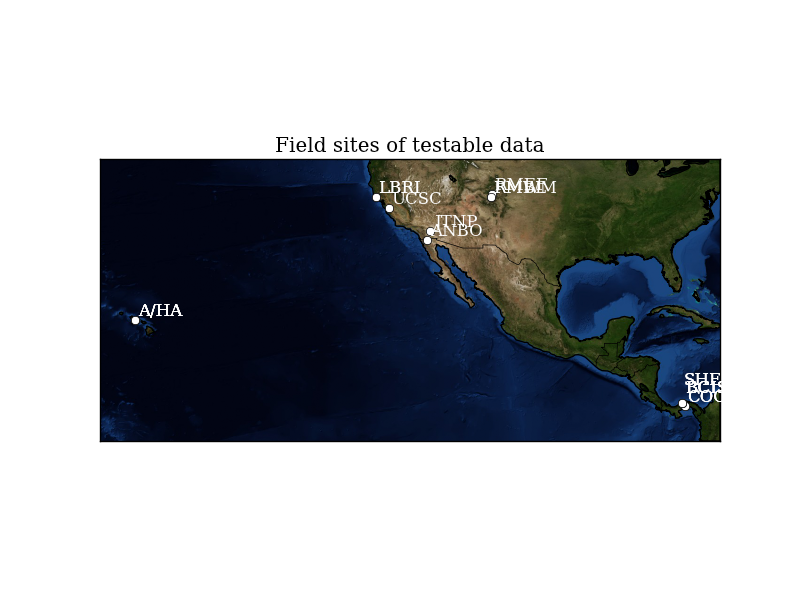
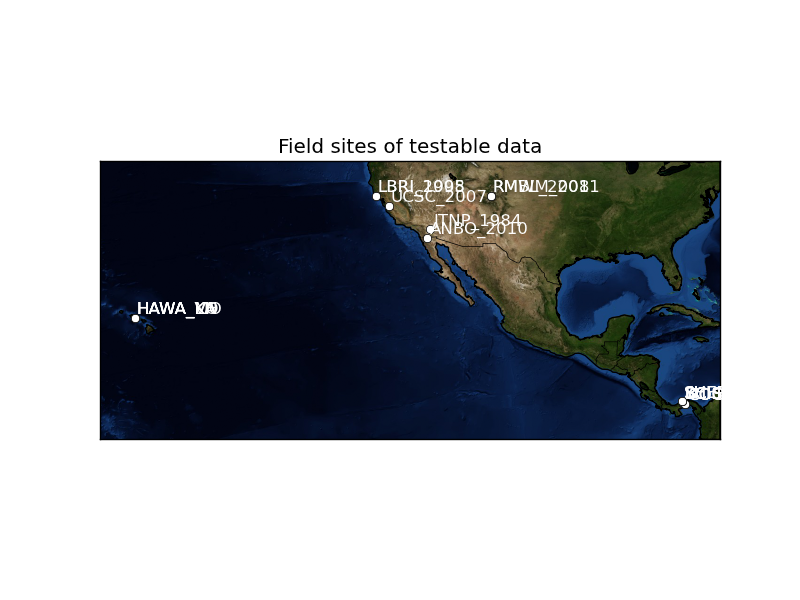
Workflow mapmaking
Workflow will make a map of (and named for) current datasources, unless
that file already exists.

diff --git a/code/macroeco/workflow.py b/code/macroeco/workflow.py
@@ -6,12 +6,16 @@ Workflow manages the details of a reproducible workflow within the METE system.
 Classes
 -------
 - Workflow: tracks the analysis & data requested, and any parameters needed.
+            Generates a map of data sites.
 - Parameters: Find, or ask for, and store the run names and parameters asked for by an analysis.
 
 '''
 import xml.etree.ElementTree as etree
 import sys, os, logging
 from matplotlib.mlab import csv2rec
+from mpl_toolkits.basemap import Basemap
+import matplotlib.pyplot as plt
+import metadata as metadata
 
 __author__ = "Chloe Lewis"
 __copyright__ = "Copyright 2012, Regents of the University of California"
@@ -66,7 +70,6 @@ class Workflow:
             dname, dext = os.path.splitext(os.path.split(dfile)[-1])
             self.data[dname] = csv2rec(dfile)
 
-
         # Log everything to console; log dated INFO+ to file.
         logging.basicConfig(level=logging.DEBUG,
                             format='%(asctime)s | %(levelname)s | %(filename)s:%(lineno)d | %(message)s', datefmt='%H:%M:%S')
@@ -82,6 +85,9 @@ class Workflow:
             self.logger.critical('Need a path to data.')
             sys.exit()
 
+        # Map the sites.
+        make_map(sys.argv[1:])
+        
         #may need parameters, which may be in multiple runs
         try:
             self.runs = Parameters(self.script, asklist) #The asking stuff happens post-beta.
@@ -139,11 +145,6 @@ class Workflow:
             for run in self.runs.params.keys():
                 outputID = '_'.join([self.script]+datanames + [run])
                 yield self.datafiles, outputID, self.runs.params[run]
-
-        
-
-    def make_map(self):
-        pass
 
         
 class AllEntities:
@@ -264,4 +265,62 @@ class Parameters:
 def _clean_name(fp):
         return os.path.splitext(os.path.split(fp)[-1])[0]
 
+def make_map(datalist):
+    '''
+    Ensures that a map of all the datasites being analyzed exists.
 
+    Parameter
+    ---------
+    datalist:  list of absolute paths to data files *.csv;
+               data location will be extracted from corresponding *.xml
+
+    Returns
+    -------
+    True if no file with the names of all these datasets exists and one was created
+    False if a file already existed
+    '''
+    lats = []
+    lons = []
+    names = []
+    for f in datalist:
+        x = f[:-3]+'xml'
+        fname, fext = os.path.splitext(os.path.split(f)[-1])
+        names.append(fname)
+        
+    # Normalize so we can check for an existing file
+    names.sort()
+    mapname = 'map_' + '_'.join(names) + '.png'
+    if os.path.isfile(mapname):
+        return False
+    
+    for f in datalist:
+        x = f[:-3]+'xml'
+        meta = metadata.Metadata(x)
+        bounds = meta.get_coverage_region()
+
+        lats.append(bounds[0])
+        lons.append(bounds[1])
+
+
+    m = Basemap(projection='cyl', lat_0=50, lon_0=-100,
+            llcrnrlon=min(lons)-5, llcrnrlat=min(lats)-5,
+            urcrnrlon=max(lons)+5, urcrnrlat=max(lats)+5,
+            resolution='l')
+
+    m.bluemarble()
+    m.drawcoastlines()
+    m.drawcountries()
+    #m.fillcontinents(color='beige') #Not with bluemarble
+    m.drawmapboundary()
+
+    x, y = m(lons, lats)
+    m.plot(x, y, 'wo')
+    for n, xpt, ypt in zip(names,x,y):
+        if n == 'BCIS': ypt += 1 #Cleanup for crowded areas 
+        if n == 'SHER': ypt += 2
+        plt.text(xpt+.5,ypt+.5,n,color='white')
+    plt.title('Field sites')
+    plt.savefig(mapname)
+    plt.close()
+    #plt.show()
+    return True

diff --git a/code/map_sites.py b/code/map_sites.py
@@ -19,7 +19,8 @@ for f in files:
     lats.append(bounds[0])
     lons.append(bounds[1])
     #    names.append(meta.get_title()) #Too long.
-    names.append(f[-13:-9])
+    fname, fext = os.path.splitext(os.path.split(f)[-1])
+    names.append(fname)
 
 
 m = Basemap(projection='cyl', lat_0=50, lon_0=-100,
